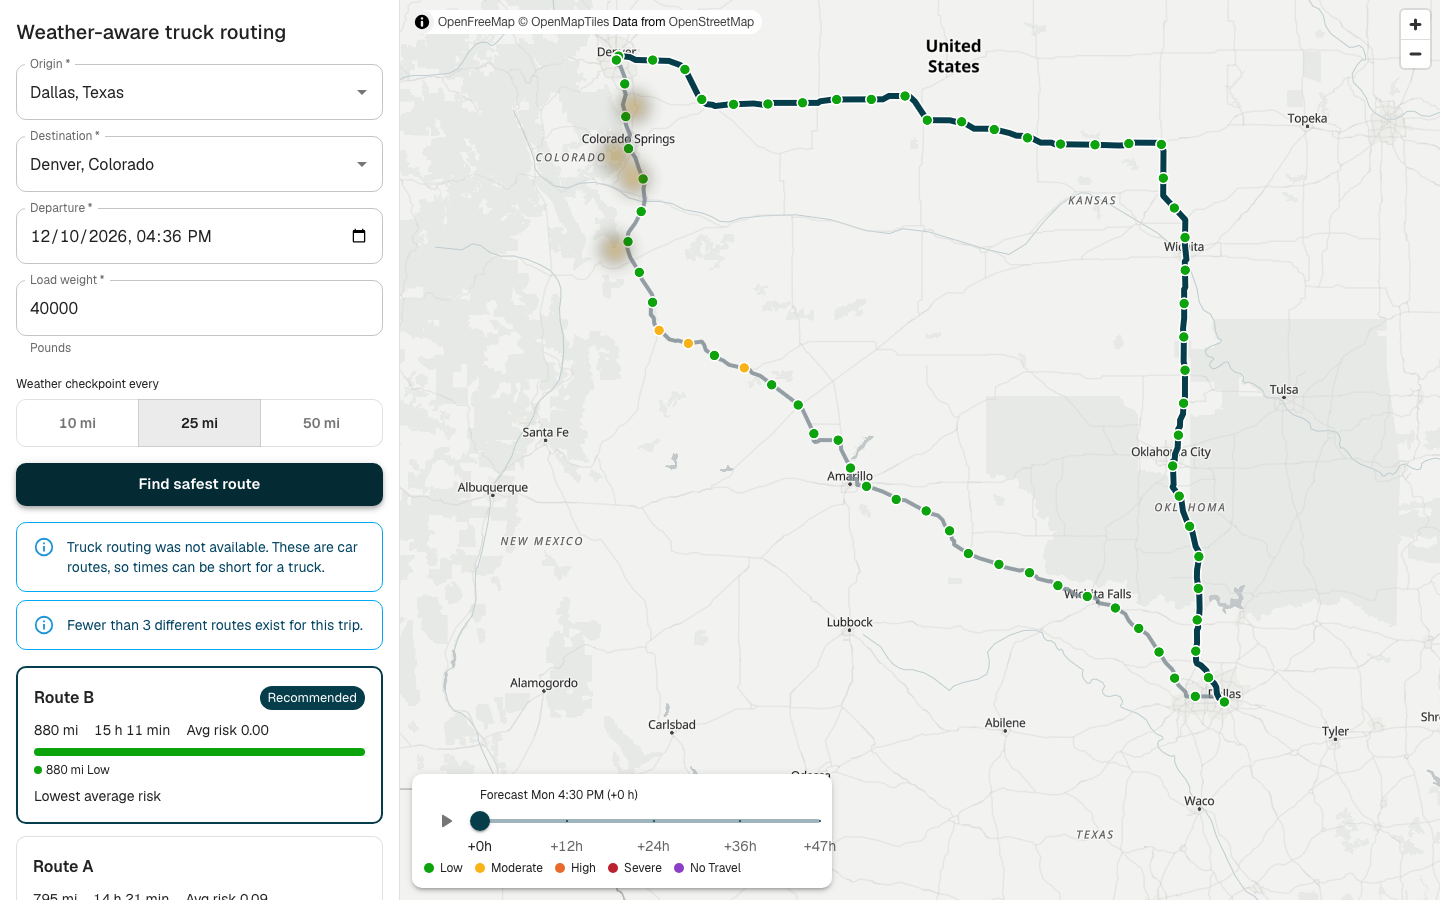
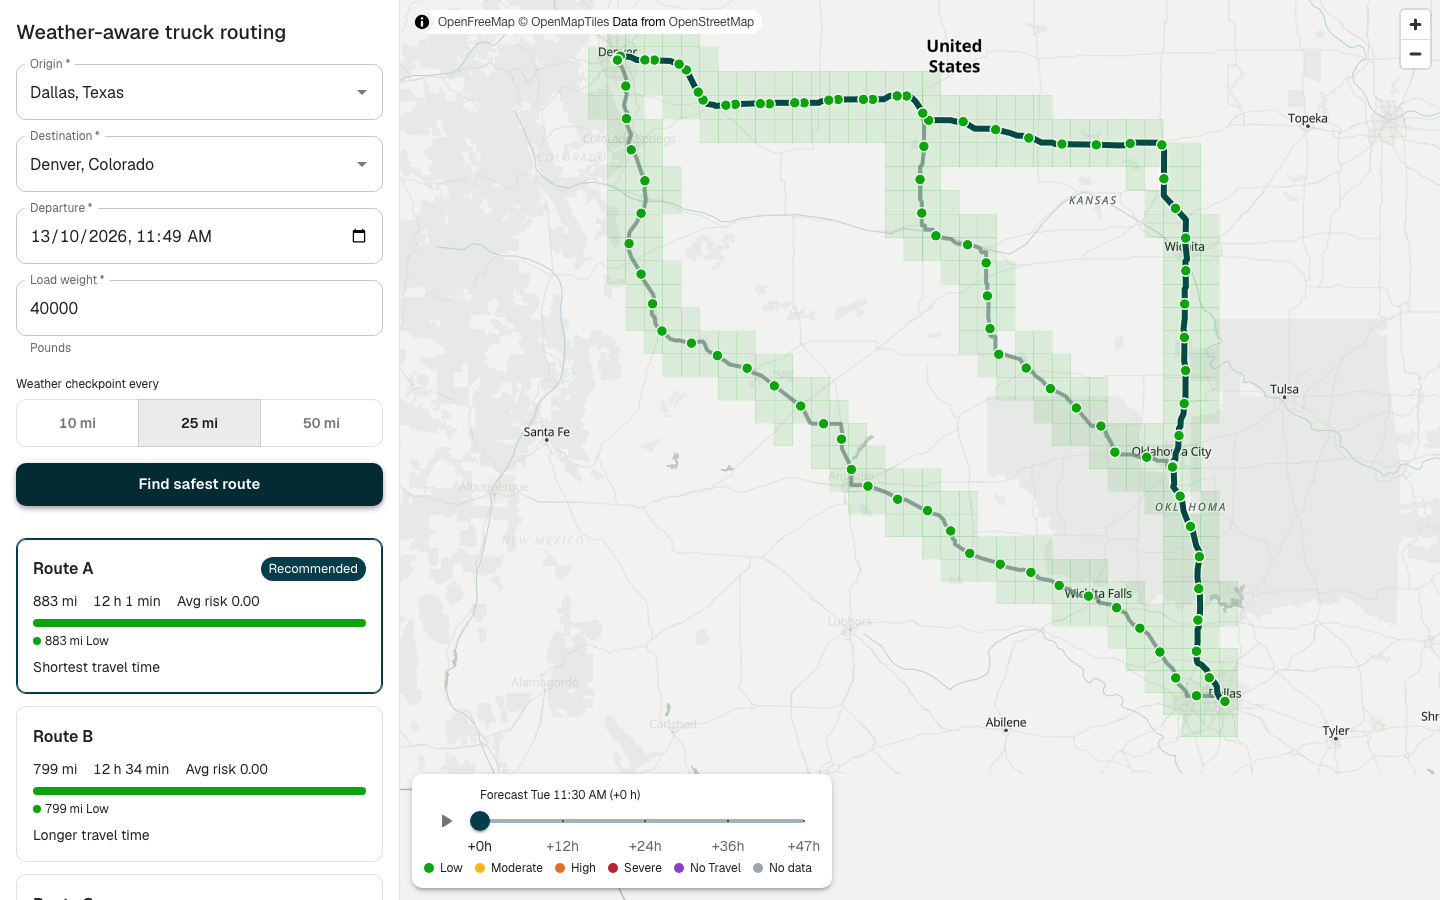
docs: rewrite readme with brief-to-code map, architecture diagram, measured performance, and demo gif

diff --git a/README.md b/README.md
@@ -1,78 +1,99 @@
 # Weather-Aware Truck Routing
 
-Plan a truck trip, get up to 3 routes, and see the weather risk at the time the truck reaches each point. The app recommends the safest route and shows a 0–48 h corridor risk map.
+Pick the safest truck route by checking the weather **at the time the truck reaches each point**, not the weather right now.
 
-Live demo: **https://truckroute.abhayymishraa.com** (API: https://api.truckroute.abhayymishraa.com/api/health)
+**Live app: https://truckroute.abhayymishraa.com** · [API health](https://api.truckroute.abhayymishraa.com/api/health) · React + TypeScript + MUI + MapLibre · Django + DRF
 
-| Desktop | Mobile |
-|---|---|
-| ![Desktop](docs/screenshots/desktop.png) | ![Mobile](docs/screenshots/mobile.png) |
+![Plan Dallas to Denver, compare 3 truck routes, and play the 48 h forecast](docs/screenshots/demo.gif)
 
-## Run locally
+## Contents
 
-Requirements: Python 3.14 with [uv](https://docs.astral.sh/uv/), Node 24.
+- [What it does](#what-it-does)
+- [Brief to code map](#brief-to-code-map)
+- [Quick start](#quick-start)
+- [How it works](#how-it-works)
+- [Risk rules](#risk-rules)
+- [Recommendation](#recommendation)
+- [Performance](#performance)
+- [Tests](#tests)
+- [Decisions and trade-offs](#decisions-and-trade-offs)
+- [Project structure](#project-structure)
+- [Limits](#limits)
+- [Deploy](#deploy)
+
+## What it does
+
+1. The driver enters origin, destination, departure time, and load weight.
+2. The server gets **3 real truck routes** (TomTom truck mode, with the truck's gross weight) and places a checkpoint every **10, 25, or 50 miles**.
+3. Each checkpoint gets the **forecast for its own ETA**, then a risk level from the brief's wind, rain, snow, and load rules.
+4. The routes are ranked **safety first, travel time last**. Each card says why it won or lost.
+5. A **0-48 h corridor heatmap** shows how the risk moves around the roads over time.
+
+| Desktop | Mobile | Dark mode |
+|---|---|---|
+| ![Desktop](docs/screenshots/desktop.png) | ![Mobile](docs/screenshots/mobile.png) | ![Dark mode](docs/screenshots/desktop-dark.png) |
+
+## Brief to code map
+
+| The brief asks for | Where it lives | How to check |
+|---|---|---|
+| Origin, destination, departure, load | [`TripForm.tsx`](frontend/src/features/trip-form/components/TripForm.tsx), [`serializers.py`](backend/routing/serializers.py) | Departure must be within now - 15 min to now + 48 h; load 1 to 80,000 lb |
+| 3 route options from a routing API | [`clients/tomtom.py`](backend/routing/clients/tomtom.py), fallback [`clients/osrm.py`](backend/routing/clients/osrm.py) | `test_routing_clients.py` |
+| Weather every 10 / 25 / 50 mi at the truck's ETA | [`services/checkpoints.py`](backend/routing/services/checkpoints.py) `sample_checkpoints`, [`clients/open_meteo.py`](backend/routing/clients/open_meteo.py) | `test_checkpoints.py`; click any dot to see its ETA |
+| Risk and load rules | [`services/risk.py`](backend/routing/services/risk.py) `checkpoint_level` | `test_risk.py` covers every boundary |
+| Recommend the best route | [`services/risk.py`](backend/routing/services/risk.py) `rank_routes` | `test_ranking.py`; the reason line on each card |
+| Routes, checkpoints, risk, ETAs, summaries on a map | [`features/map`](frontend/src/features/map), [`features/routes`](frontend/src/features/routes) | Click a card or a route line; click a checkpoint |
+| Corridor heatmap with a 0-48 h slider | [`features/weather-heatmap`](frontend/src/features/weather-heatmap) | Drag the slider or press play |
+
+## Quick start
+
+**Use the live app:** https://truckroute.abhayymishraa.com
+
+**Run with Docker** (the whole app on one machine, HTTPS through Caddy):
 
 ```bash
-# Backend (http://localhost:8000)
-cd backend
-uv sync
-export TOMTOM_API_KEY=your-key   # optional, see "Routing" below
-uv run python manage.py runserver
-
-# Frontend (http://localhost:5173, proxies /api to the backend)
-cd frontend
-npm ci
-npm run dev
-```
-
-If port 8000 is in use, run the backend on another port and start the frontend with `API_PROXY=http://localhost:<port> npm run dev`.
-
-Tests:
-
-```bash
-cd backend && uv run pytest && uv run ruff check .
-cd frontend && npm test && npx tsc -b && npm run e2e
-```
-
-`npm run e2e` starts its own backend (port 8001) and frontend (port 5174), and calls the live outside APIs.
-
-Docker (production build, HTTPS through Caddy):
-
-```bash
-cp .env.example .env    # set DJANGO_SECRET_KEY, the domain, and TOMTOM_API_KEY
+cp .env.example .env          # set DJANGO_SECRET_KEY, the domain, and TOMTOM_API_KEY
 docker compose up --build -d
 curl -sk https://localhost/api/health
 ```
 
+**Run for development** (Python 3.14 with [uv](https://docs.astral.sh/uv/), Node 24):
+
+```bash
+cd backend && uv sync
+TOMTOM_API_KEY=your-key uv run python manage.py runserver     # http://localhost:8000
+
+cd frontend && npm ci && npm run dev                          # http://localhost:5173
+```
+
+The frontend proxies `/api` to port 8000. If that port is busy, start the backend on another port and run `API_PROXY=http://localhost:<port> npm run dev`.
+
+The TomTom key is free at [developer.tomtom.com](https://developer.tomtom.com/) (no credit card). Without a key, the app still works with OSRM car routes and shows a notice. The key stays on the server and never reaches the browser.
+
 ## How it works
 
+One `POST /api/plan` does all the work and returns one JSON answer.
+
+```mermaid
+flowchart LR
+  B[Browser<br/>React + MapLibre] -->|POST /api/plan| P[services/plan.py]
+  B -->|GET /api/geocode| G[photon client<br/>cache 24 h] --> PH[(Photon)]
+  P --> R[tomtom client<br/>cache 1 h] --> TT[(TomTom truck)]
+  R -. fails or no key .-> O[osrm client] --> OS[(OSRM car)]
+  P --> C[checkpoints every N mi<br/>with ETA]
+  C --> S[snap points to a 0.25° grid<br/>and remove duplicates]
+  S --> W[open_meteo client<br/>cache 1 h per cell] --> OM[(Open-Meteo)]
+  W --> K[risk per checkpoint<br/>and per cell per hour]
+  K --> RK[rank routes] --> B
 ```
-Browser (React)                    Django (DRF)                      Outside APIs
-Address field ──GET /api/geocode──▶ photon client (cache 24 h) ─────▶ Photon
-Trip form ─────POST /api/plan─────▶ services/plan.py
-                                     1. tomtom client (cache 1 h) ───▶ TomTom (truck)
-                                        fallback: osrm client ───────▶ OSRM (car)
-                                     2. checkpoints every N mi + ETA
-                                     3. corridor points along and beside each route
-                                     4. snap all points to a 0.25° grid, dedupe
-                                     5. open_meteo client (cache 1 h per cell) ▶ Open-Meteo
-                                     6. risk level per checkpoint and per cell per hour
-                                     7. rank the routes
-◀──────────── one JSON response ────
-```
 
-- **Routing: TomTom Calculate Route** with `travelMode=truck`, `vehicleCommercial=true`, `vehicleWeight` (load + 35,000 lb empty truck), `departAt`, and `maxAlternatives=2`. The response gives the travel time at route points, so each checkpoint ETA comes from TomTom.
-- **Fallback: OSRM** (car profile). The app uses it when TomTom has no key, fails, or hits its quota, and shows a "car routes" notice.
-- **Weather: Open-Meteo** hourly `wind_speed_10m`, `wind_gusts_10m`, `rain + showers`, and `snowfall`, in mph and in/hr.
-- **Geocoding: Photon**, limited to the US.
-- **Map: MapLibre** with OpenFreeMap tiles.
-
-Get a TomTom key: sign up at [developer.tomtom.com](https://developer.tomtom.com/) (no credit card), then set `TOMTOM_API_KEY` in the backend environment. The key stays on the server.
-
-Code layout:
-- `backend/routing/services/`: pure risk, checkpoint, and geometry logic, plus the plan orchestration.
-- `backend/routing/clients/`: one module per outside API.
-- `frontend/src/features/`: `trip-form`, `routes`, `map`, and `weather-heatmap`, composed in `src/app/`.
+| Data | Source | Notes |
+|---|---|---|
+| Routes and ETAs | TomTom Calculate Route | `travelMode=truck`, `vehicleCommercial=true`, `vehicleWeight` = load + 35,000 lb, `departAt`, `maxAlternatives=2`. Travel time at route points gives each checkpoint's ETA. |
+| Fallback routes | OSRM | Car profile, with a "car routes" notice |
+| Weather | Open-Meteo | Hourly sustained wind, gusts, rain + showers, snowfall, in mph and in/hr |
+| Place search | Photon | US only |
+| Map tiles | OpenFreeMap | MapLibre GL |
 
 ## Risk rules
 
@@ -82,66 +103,132 @@ Code layout:
 | Rain (in/hr) | < 0.10 | 0.10 to < 0.25 | 0.25 to < 0.50 | 0.50 to ≤ 1.00 | > 1.00 |
 | Snow (in/hr) | < 0.5 | 0.5 to < 1.0 | 1.0 to < 2.0 | 2.0 to ≤ 3.0 | > 3.0 |
 
-Edge choices, because the given ranges touch or leave gaps:
-- Each lower bound is inclusive. For example, 34.5 mph is Moderate.
-- A shared bound goes to the higher level. For example, 0.25 in/hr of rain is High.
-- No Travel uses ≥ 55 for wind, and strictly greater than for rain and snow.
-- Wind uses the sustained speed. Gusts are information only.
+Load rules can only raise the level:
 
-Load rules (they can only raise the level):
-- Wind ≥ 55 mph: No Travel for any load.
-- Wind 45 to < 55 mph and load > 30,000 lb: No Travel.
-- Wind 35 to < 45 mph and load > 40,000 lb: Severe.
+| Wind | Load | Result |
+|---|---|---|
+| ≥ 55 mph | any | No Travel |
+| 45 to < 55 mph | > 30,000 lb | No Travel |
+| 35 to < 45 mph | > 40,000 lb | Severe |
 
-A checkpoint takes the highest of its wind, rain, and snow levels, then the load rules apply. A checkpoint with an ETA past the 48 h forecast, or with a missing value, is **No Data**. No Data is shown in gray and is not scored.
+A checkpoint takes the worst of its wind, rain, and snow levels, and then the load rules apply.
+
+The brief's ranges touch or leave gaps, so these edge choices are explicit and tested:
+- Each lower bound is inclusive, so 34.5 mph is Moderate.
+- A shared bound goes to the higher level, so 0.25 in/hr of rain is High. For safety, warning early is better than warning late.
+- Wind uses the sustained speed. Gusts are shown but not scored.
+- An ETA past the 48 h forecast, or a missing value, is **No Data**. It shows in gray and is not scored, so the app never guesses.
 
 ## Recommendation
 
-Each checkpoint owns the miles from the midpoint with the previous checkpoint to the midpoint with the next one, so the miles add up to the route length.
+Each checkpoint owns the miles halfway to its neighbors, so the miles always add up to the route length. Routes are compared key by key, and the first difference decides:
 
-Routes are ranked by:
-1. Routes with no No Travel miles first, then fewest No Travel miles.
+1. **Fewest No Travel miles.** A route with any No Travel miles always ranks below one with none. The brief does not rank No Travel, and a route the truck must not drive should never be recommended.
 2. Fewest Severe miles.
 3. Fewest High miles.
-4. Lowest average risk, weighted by miles (Low 0 to No Travel 4; No Data excluded).
+4. Lowest average risk, weighted by miles (Low 0 to No Travel 4).
 5. Shortest travel time.
 
-The first route is recommended. Each card names the key that decided its place. If every route has No Travel miles, a red banner says that no safe route exists in this window.
+The top route gets the **Recommended** badge. Every card shows the key that decided its place, for example "Fewest Severe miles" or "More High miles". If every route has No Travel miles, a red banner says that no safe route exists in this time window.
 
 ## Performance
 
-- **One request per plan.** `POST /api/plan` returns the routes, the checkpoints, and the heatmap together.
-- **Grid snap and dedupe.** All checkpoints and corridor points snap to a 0.25° grid (about 17 mi). Dallas to Denver needs 291 weather cells for 2 routes, fetched in batches of 100.
-- **Caches.** Routes are cached for 1 h, each weather cell for 1 h, and geocoding results for 24 h (Redis in production). Measured on Dallas to Denver: 4.8 s on a cold cache, 0.05 s on a warm cache.
-- **Compression.** Caddy gzip reduces the plan response from 448 KB to 122 KB.
-- **Slider.** The forecast slider changes the `fill-color` and `fill-opacity` paint properties of the corridor grid layer. The map does not re-render in React; only the slider label updates.
+| What | Result |
+|---|---|
+| Requests per plan | **1** (routes, checkpoints, and heatmap together) |
+| Weather cells, Dallas to Denver, 3 routes | **353**, sent to Open-Meteo in batches of 100 |
+| Plan time, live API (Oracle free VM, 1 GB RAM) | **8.4 s** cold cache, **1.0 s** warm |
+| Plan time, Docker on a laptop | **4.8 s** cold cache, **0.05 s** warm |
+| Plan payload | **743 KB** of JSON, **203 KB** with gzip |
+| Forecast slider | **0 React re-renders of the map.** It calls `setPaintProperty` for the heatmap color and opacity ([`ForecastSlider.tsx`](frontend/src/features/weather-heatmap/components/ForecastSlider.tsx)). All 48 hours are already in the response. |
+
+How this is kept fast:
+- **Grid snap.** Every checkpoint and corridor point snaps to a 0.25° cell (about 17 mi). Points in the same cell share one forecast, and the 3 routes share cells where they overlap.
+- **Cell budget.** One plan uses at most 500 weather cells. Long trips drop the side corridor before they drop route cells, to stay under Open-Meteo's free limit of 600 per minute.
+- **Caches.** Routes and each weather cell for 1 h, place search for 24 h, in Redis in production.
+- **GPU map layers.** Routes, checkpoints, and heatmap cells are MapLibre layers. Selecting a route changes a layer filter, not React state on every feature.
+
+Through Vercel, a warm plan took 1.1 to 4.1 s in tests, because Vercel's proxy may run far from the Mumbai VM.
+
+## Tests
+
+| Suite | Count | Command |
+|---|---|---|
+| Backend: risk, ranking, checkpoints, geometry, clients, plan, API | 100 cases | `cd backend && uv run pytest` |
+| Frontend: form validation, cards, risk scale, heatmap, formatting | 15 | `cd frontend && npm test` |
+| End to end: real browser, real APIs | 1 | `cd frontend && npm run e2e` |
+| Lint and types | clean | `uv run ruff check .` · `npx oxlint` · `npx tsc -b` |
+
+The risk and checkpoint code is pure: no network and no Django imports. That is why every boundary in the tables above has a direct unit test.
+
+## Decisions and trade-offs
+
+| Decision | Why | Cost |
+|---|---|---|
+| TomTom truck routing, OSRM fallback | Real truck rules and weight, plus travel time at points for accurate ETAs | Free tier: 20,000 requests a month. The fallback gives car routes with a clear notice. |
+| One `/api/plan` request | No waterfall of requests in the browser; one cache key per trip | The first plan waits for all the data |
+| 0.25° weather grid | Turns thousands of points into a few hundred forecasts | Weather smaller than about 17 mi can be missed |
+| Shared bound goes to the higher level | Safety-first reading of ranges that touch | Slightly more warnings |
+| No Travel ranks first | A No Travel route must never win on time | One rule added on top of the brief |
+| Slider changes paint only | Smooth scrubbing on low-end phones | All 48 hours load up front (203 KB with gzip) |
+| Business logic in pure `services/` | Easy to test and to read | A thin extra layer between views and clients |
+
+## Project structure
+
+```text
+backend/
+  config/settings/          base, local, production (all settings from env vars)
+  routing/
+    apis.py                 thin DRF views
+    serializers.py          input validation
+    services/               plan.py (orchestration), risk.py, checkpoints.py, geo.py: pure logic
+    clients/                tomtom, osrm, open_meteo, photon: one module per outside API, cached
+    tests/
+frontend/src/
+  app/                      App, AppShell (desktop side panel, mobile bottom sheet), providers
+  features/
+    trip-form/              form and place search
+    routes/                 route cards, risk bar, recommendation reason
+    map/                    MapLibre map, route and checkpoint layers, popup
+    weather-heatmap/        corridor grid layer, 0-48 h slider, legend
+  theme/                    MUI theme, color-blind-safe risk scale
+docker-compose.yml          backend (gunicorn), redis, web (Caddy)
+```
+
+Features do not import each other. They are composed in `app/`.
 
 ## Limits
 
-- The TomTom free tier has 20,000 routing requests per month. When TomTom is not available, the app uses OSRM car routes, which ignore truck rules.
-- OSRM, Photon, Open-Meteo, and OpenFreeMap are public services with rate limits.
-- Open-Meteo's free tier allows 600 location calls per minute and 5,000 per hour. One plan uses at most 500 weather cells: long trips drop the side corridor and keep the cells along each route. If a service returns 429, the app says "busy, try again in 1 minute" (HTTP 503).
+- The TomTom free tier allows 20,000 routing requests a month. OSRM car routes ignore truck rules.
+- OSRM, Photon, Open-Meteo, and OpenFreeMap are public services with rate limits. If one returns 429, the app says the service is busy and to try again in 1 minute (HTTP 503).
 - The forecast covers 48 h. Later checkpoints are No Data.
-- The weather grid is about 17 mi, so very local weather can be missed.
-- The empty truck weight (35,000 lb) is a fixed value.
+- The empty truck weight is fixed at 35,000 lb.
+- The route is planned before the trip. Live re-planning from GPS during the trip is a possible next step.
 
 ## Deploy
 
-Live setup:
-- **Frontend on Vercel** at `truckroute.abhayymishraa.com`. `frontend/vercel.json` rewrites `/api/*` to the API domain, so the browser stays on one origin and needs no CORS.
-- **API on an Oracle Cloud Always Free VM** (E2.1.Micro, 1 GB RAM + 2 GB swap) at `api.truckroute.abhayymishraa.com`, with Docker Compose: `backend` (gunicorn), `redis`, and `web` (Caddy proxies `/api` and gets the HTTPS certificate).
+| Part | Host | Address |
+|---|---|---|
+| Frontend | Vercel | `truckroute.abhayymishraa.com` |
+| API | Oracle Cloud Always Free VM (E2.1.Micro, 1 GB RAM + 2 GB swap), Docker Compose | `api.truckroute.abhayymishraa.com` |
 
-The Compose stack also serves the frontend build, so one VM alone can run the whole app.
+[`frontend/vercel.json`](frontend/vercel.json) rewrites `/api/*` to the API domain, so the browser stays on one origin and no CORS setup is needed. The Compose stack also serves the frontend build, so one VM alone can run the whole app.
 
-On an Oracle Cloud VM (Ubuntu):
-1. Add ingress rules for TCP 80 and 443 to the VCN security list.
-2. Open the same ports on the VM:
+<details>
+<summary>Deploy steps</summary>
+
+**API on an Ubuntu VM (Oracle Cloud):**
+
+1. Allow TCP 80 and 443 in the VCN security list, and on the VM:
    ```bash
    sudo iptables -I INPUT 6 -m state --state NEW -p tcp --dport 80 -j ACCEPT
    sudo iptables -I INPUT 6 -m state --state NEW -p tcp --dport 443 -j ACCEPT
    sudo netfilter-persistent save
    ```
-3. Install Docker, clone the repo, and create `.env` from `.env.example`. With no domain, use `<public-ip>.sslip.io` for `SITE_ADDRESS` and `DJANGO_ALLOWED_HOSTS`. On a 1 GB VM, add swap before the build.
-4. Run `docker compose up --build -d`, then check `curl -s https://<domain>/api/health`.
+2. On a 1 GB VM, add swap before the build.
+3. Install Docker, clone the repo, and create `.env` from `.env.example`. Set `SITE_ADDRESS` and `DJANGO_ALLOWED_HOSTS` to the API domain. With no domain, use `<public-ip>.sslip.io`.
+4. Run `docker compose up --build -d`, then `curl -s https://<domain>/api/health`.
 
-Frontend on Vercel: set the API domain in `frontend/vercel.json`, then run `vercel deploy --prod` in `frontend/` and point the domain's CNAME to `cname.vercel-dns.com`.
+**Frontend on Vercel:** set the API domain in `frontend/vercel.json`, run `vercel deploy --prod` in `frontend/`, and point the domain's CNAME to `cname.vercel-dns.com`.
+
+</details>
